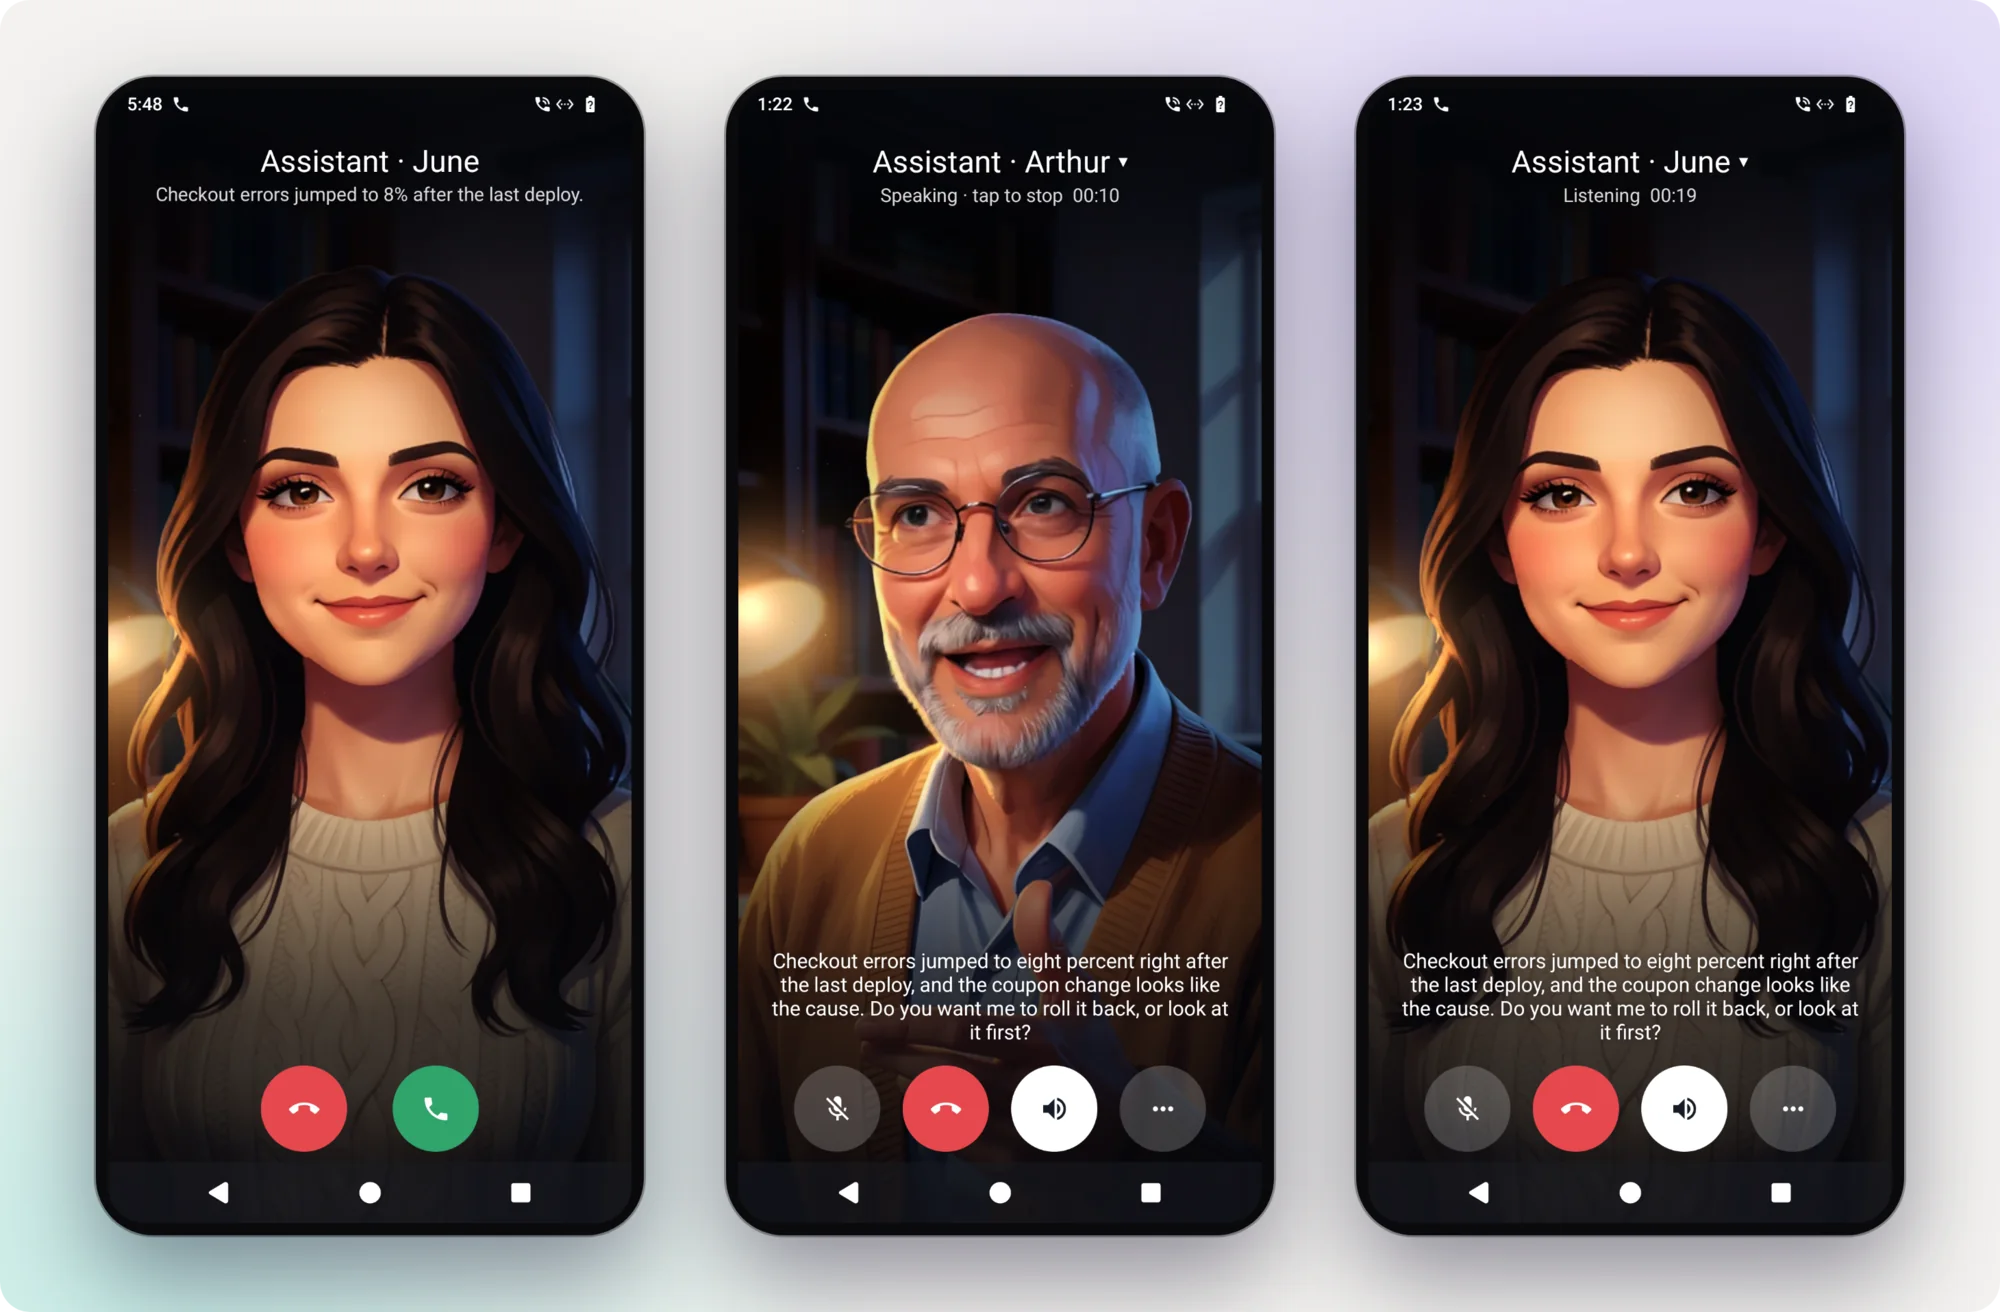
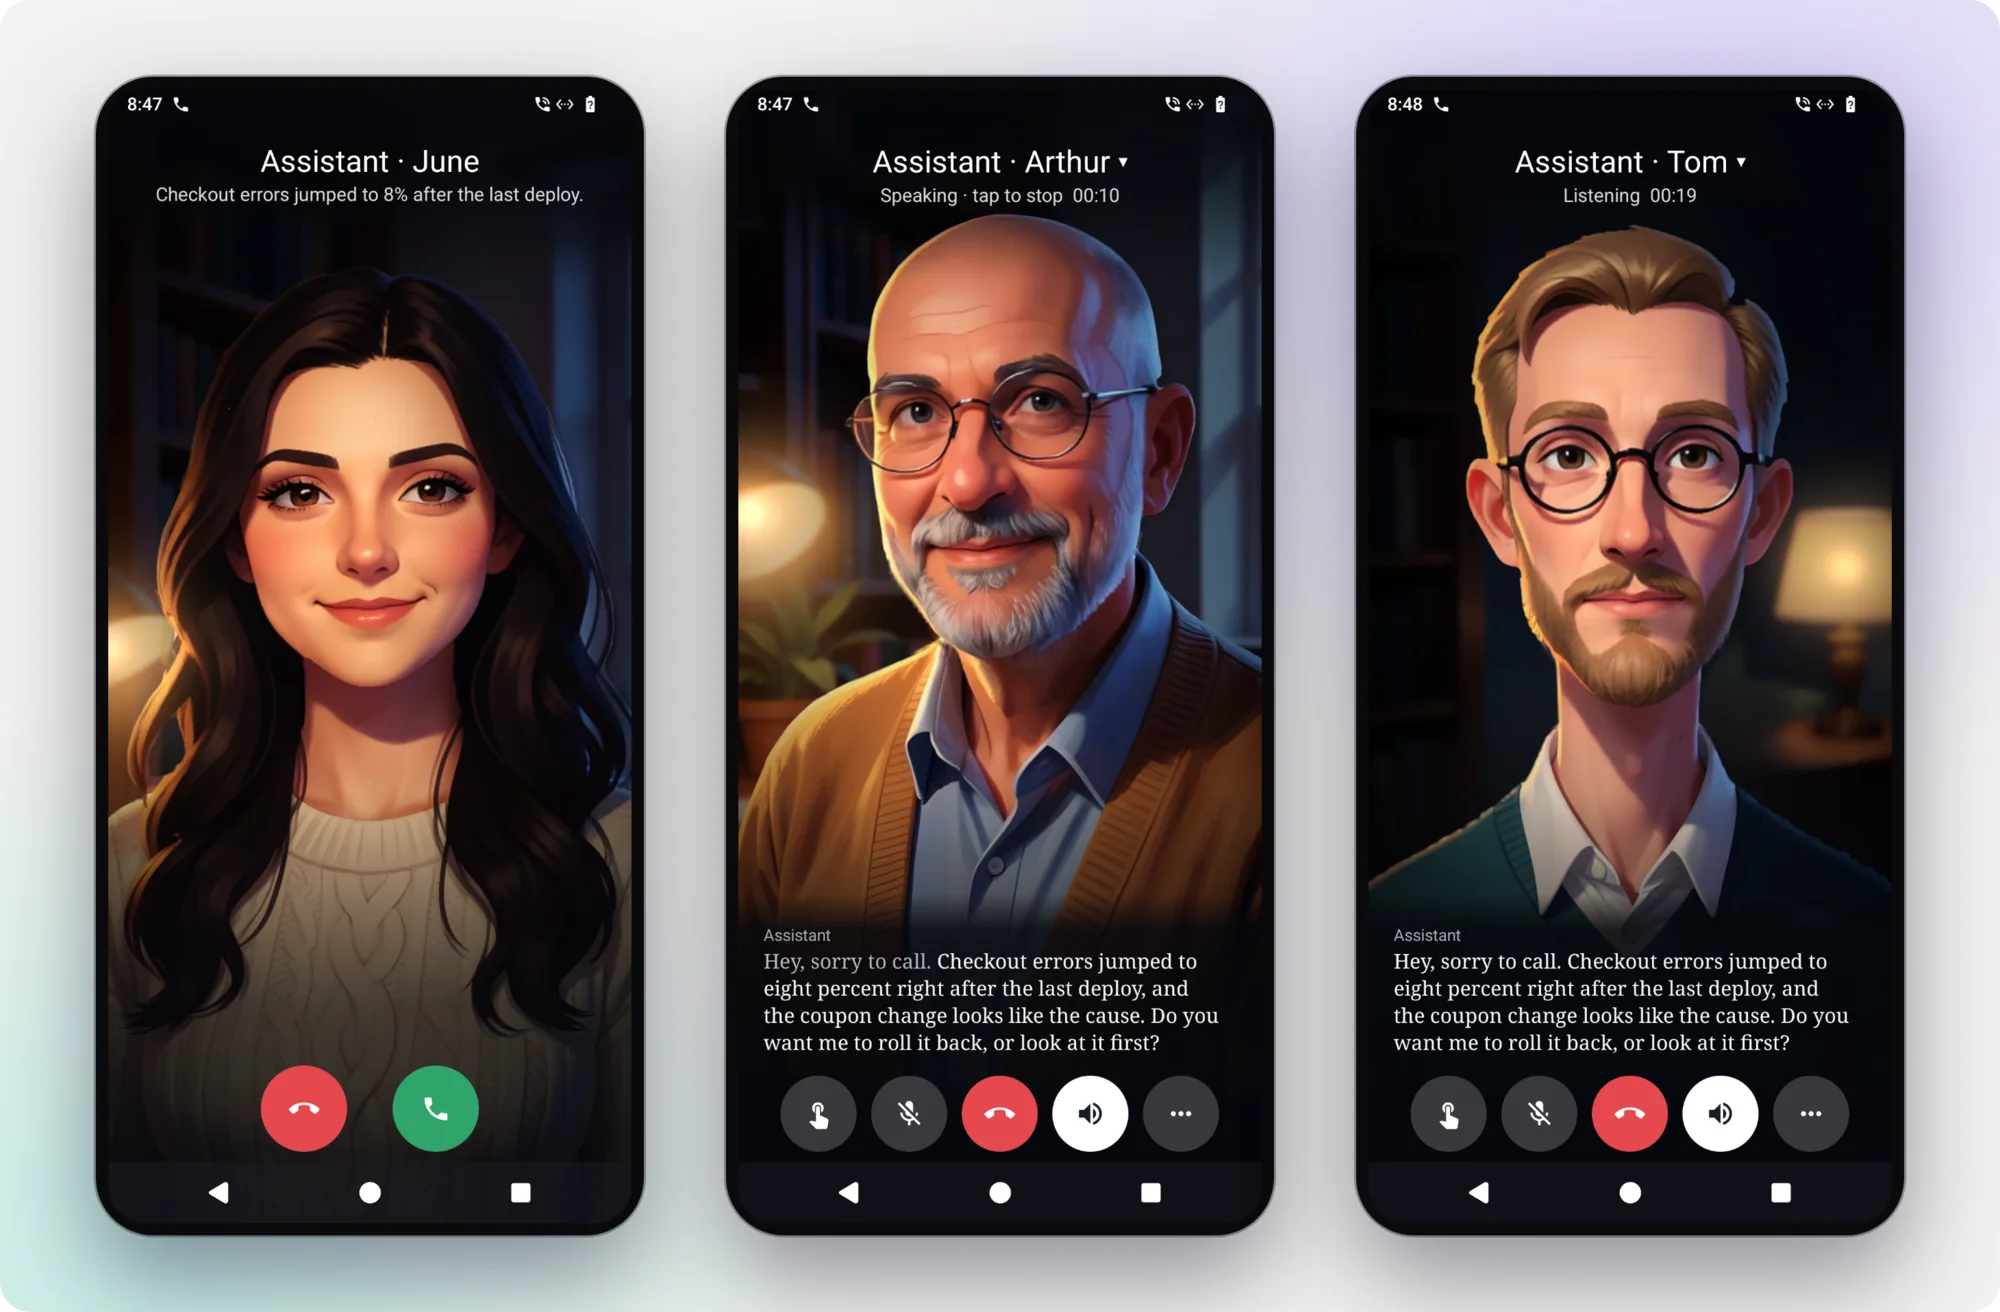
README's call image has all three characters: June ringing, Arthur speaking, Tom listening, reshot on the current call screen. The demo has Tom, and phone-shots.sh character also shoots that person's ring

diff --git a/test/demo/compose.js b/test/demo/compose.js
@@ -35,7 +35,7 @@ async (page, { raw = "http://127.0.0.1:7440/raw", out = "/tmp/atc-final", modes 
   const layouts = {
     hero: { w: 1320, h: 930, body: (r) => win(`${r}/hero.png`, 20, 20, 1280) },
     fleet: { w: 2300, h: 1400, body: (r) => win(`${r}/fleet.png`, 40, 40, 1560) + win(`${r}/desk.png`, 1000, 300, 1260) + ph(`${r}/ring-headsup.png`, 60, 500, 400) },
-    "call-ring": row(["ring-full", "arthur-3", "june-5"], 56, 400, 60),
+    "call-ring": row(["june-ring", "arthur-3", "tom-5"], 56, 400, 60),
     bays: { w: 1320, h: 830, body: (r) => win(`${r}/bays.png`, 20, 20, 1280) },
     assistant: solo("assist-arthur-thinking", 1400, 900),
     board: solo("board", 1560, 1040),

diff --git a/test/demo/seed.py b/test/demo/seed.py
@@ -583,7 +583,8 @@ def main_box():
         (d / "agent.json").write_text(json.dumps(cfg))
     (ATC / "persons.json").write_text(json.dumps({"persons": [
         {"id": "june", "name": "June", "character": "woman", "voices": {}},
-        {"id": "arthur", "name": "Arthur", "character": "professor", "voices": {}}], "langs": {"en": "june"}}))
+        {"id": "arthur", "name": "Arthur", "character": "professor", "voices": {}},
+        {"id": "tom", "name": "Tom", "character": "lanky", "voices": {}}], "langs": {"en": "june"}}))
     # What Claude Code records when you trust your home folder, so the agents here can wake.
     (HOME / ".claude.json").write_text(json.dumps({"projects": {str(HOME): {"hasTrustDialogAccepted": True}}}))
     (ATC / "presets.json").write_text(json.dumps([{"name": "reviewer", "dir": SHOP, "brief": "REVIEWER.md"}, {"name": "docs writer", "dir": DOCS, "worktree": True}]))

diff --git a/README.md b/README.md
@@ -125,10 +125,10 @@ The one thing it can't do is answer a session's permission prompt. Those still t
 
 <picture>
   <source media="(prefers-color-scheme: dark)" srcset="docs/img/call-ring-dark.webp">
-  <img src="docs/img/call-ring-light.webp" alt="Three phones. The first is ringing with the character on screen: Assistant, June, with the reason under the name, Checkout errors jumped to 8% after the last deploy, and a red and a green button. The second is on the call with Arthur, a painted professor in glasses and a cardigan in their study, speaking. The third is on the call with June, a painted woman with long dark hair in a cream sweater, listening. Each call has the name and a timer above the face, and what was said below it.">
+  <img src="docs/img/call-ring-light.webp" alt="Three phones. The first is ringing with the character on screen: Assistant, June, with the reason under the name, Checkout errors jumped to 8% after the last deploy, and a red and a green button. The second is on the call with Arthur, a painted professor in glasses and a cardigan in their study, speaking. The third is on the call with Tom, a painted lanky young man in round glasses and a teal jumper in a lamp-lit sitting room, listening. Each call has the name and a timer above the face, and what was said below it.">
 </picture>
 
-*The ring, then two of the built-in characters speaking and listening. On Android it is a real phone call: it rings on the lock screen and appears in your call log, you answer from Bluetooth or car buttons, it works on Android Auto, and it goes on hold for a SIM call.*
+*The three built-in characters: one ringing, one speaking, one listening. On Android it is a real phone call: it rings on the lock screen and appears in your call log, you answer from Bluetooth or car buttons, it works on Android Auto, and it goes on hold for a SIM call.*
 
 It runs on your machine on 2 CPU cores: about 3 seconds from when you stop talking to its first word, most of that Claude's first
 token. Streaming speech recognition is the weakest part, so it sometimes has to guess at a word.
